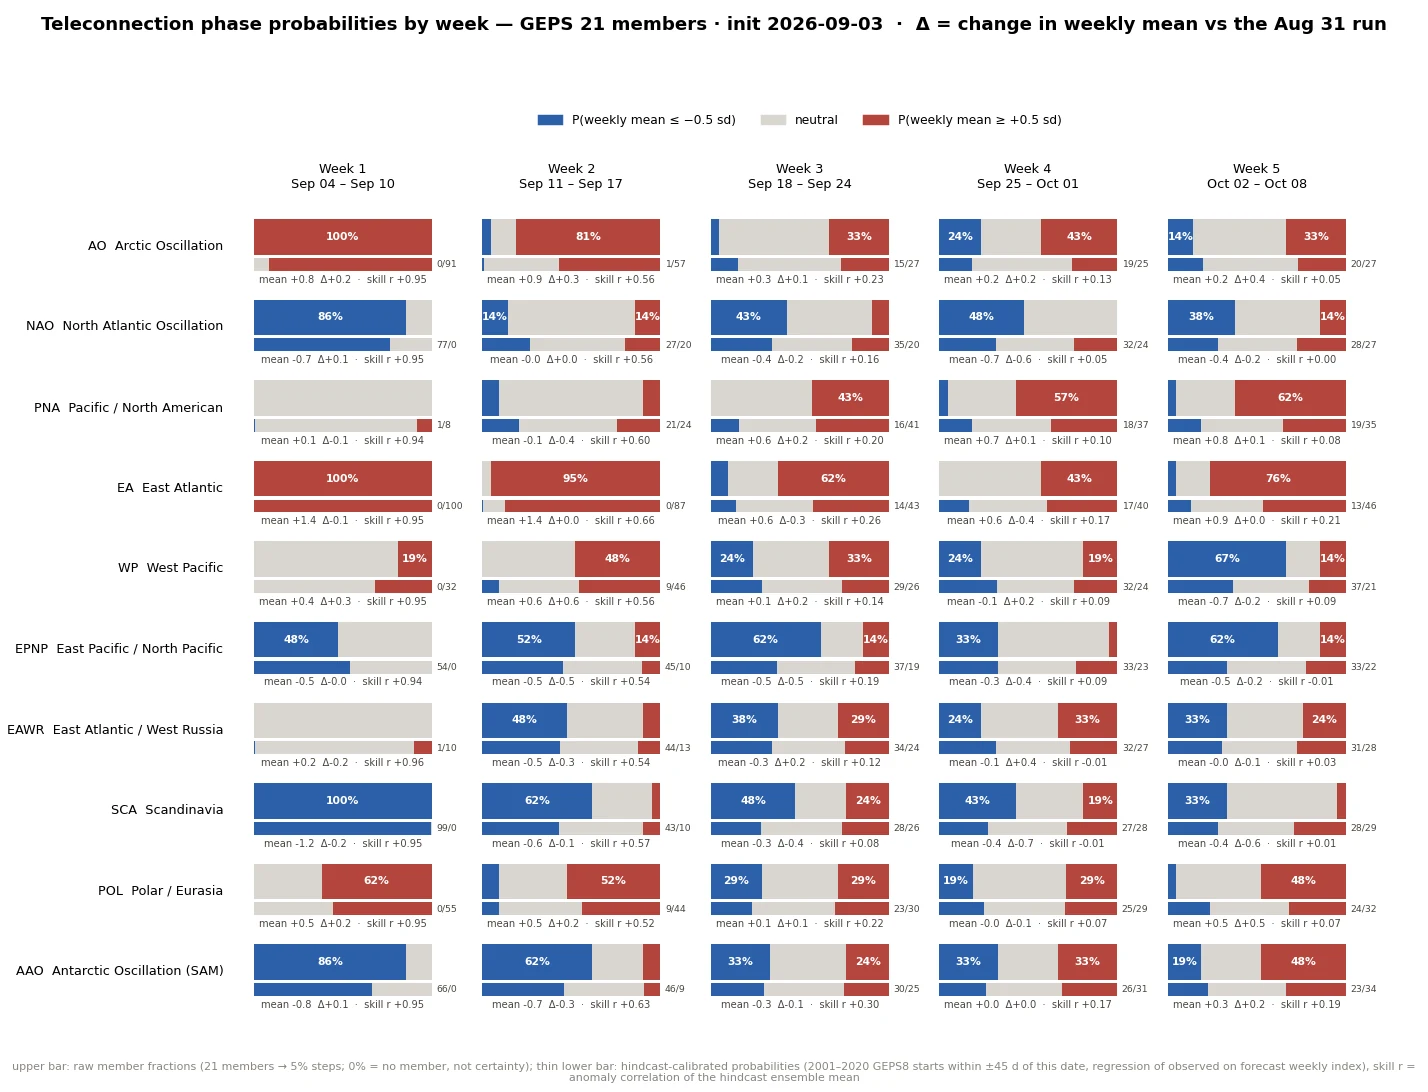
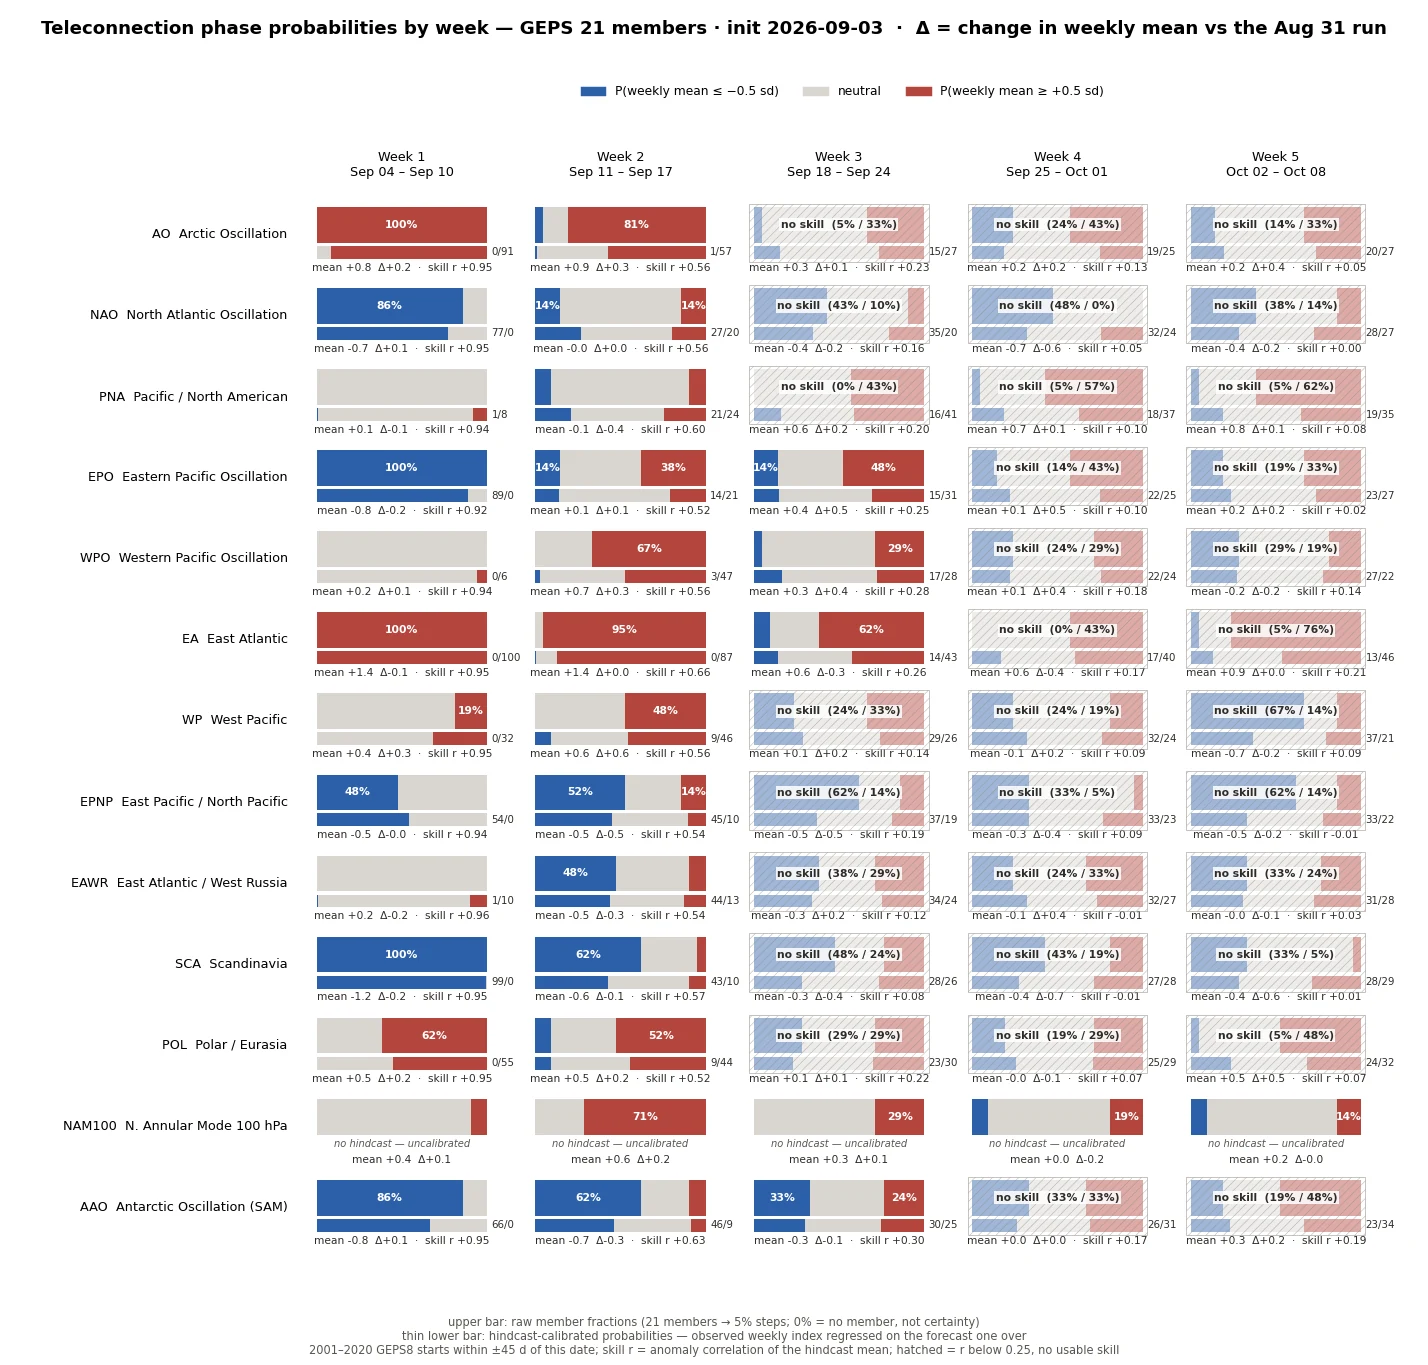
subseasonal: EPO, WPO and NAM-100 indices, per-index plumes with a dropdown, no-skill hatching, darker annotation text
Claude-Session: https://claude.ai/code/session_01XebqmvNTY58jDPzWVXJLUq

diff --git a/subseasonal.html b/subseasonal.html
@@ -104,6 +104,8 @@
   table.tele th span, table.tele td span { display: block; font-weight: 400; font-size: 0.7rem; color: var(--muted); }
   table.tele td i { font-style: normal; color: #4a4640; }
   table.tele td.r { color: var(--muted); font-size: 0.72rem; white-space: nowrap; }
+  table.tele td.noskill { background-image: repeating-linear-gradient(135deg, rgba(255,255,255,0.55) 0 4px, rgba(140,136,128,0.35) 4px 6px) !important; color: var(--muted); }
+  table.tele td.noskill b { color: var(--muted); }
   .chart-card-header b { color: var(--ink); font-weight: 500; }
 
   .img-wrap { padding: 1rem 1.2rem; background: #fff; }
@@ -369,7 +371,16 @@
     lead 0.5 and re-based), so analysis and forecast sit on one rule &mdash; against the NCEP
     climatology instead, the GEPS-versus-R1 height offset projected onto the monopole-like patterns
     as a spurious step at the seam. CPC&rsquo;s own published daily values are drawn beside the
-    tail. Raw probabilities are member fractions, so they resolve to about 5% and 0% means
+    tail. Two Pacific indices forecasters use that are not in CPC&rsquo;s set are added on
+    PSL&rsquo;s definitions &mdash; box differences of 500&nbsp;hPa height anomaly, EPO
+    (20&ndash;35&deg;N minus 55&ndash;65&deg;N over 160&ndash;125&deg;W) and WPO (25&ndash;40&deg;N
+    minus 50&ndash;70&deg;N over 140&deg;E&ndash;150&deg;W) &mdash; and reproduce PSL&rsquo;s daily
+    series at r&nbsp;0.97 and 0.99. The <b>NAM at 100&nbsp;hPa</b>, the stratosphere&ndash;troposphere
+    coupling index, is the leading EOF of 100&nbsp;hPa height anomalies poleward of 20&deg;N with the
+    hemispheric mean removed first (the +19&nbsp;m/decade height trend at that level would otherwise
+    read as a permanently weak vortex), taken from the 21 members&rsquo; 100&nbsp;hPa heights; the
+    GEPS8 hindcast carries nothing above 200&nbsp;hPa, so it is a plain anomaly against the NCEP
+    climatology and gets no calibration. Raw probabilities are member fractions, so they resolve to about 5% and 0% means
     &ldquo;no member&rdquo;, not certainty.</p>
     <p><b>Calibrated on the hindcast.</b> The same projectors are applied to every GEPS8 hindcast
     start of 2001&ndash;2020 &mdash; four a week, 39 daily leads, de-drifted and re-based exactly
@@ -428,12 +439,14 @@ var P = {
         b: {label:"Field", items: FIELDS},
         img: function (a,b) { return "assets/geps/geps_" + a + "_" + b + "_change.webp"; },
         cap: function () { return "This run minus the previous extended run (3\u20134 days earlier), weekly means over the valid days both forecast. Week 5 is a partial week and says so."; }},
-  telecon: {label: "Teleconnections \u2014 AO, NAO, PNA, AAO \u2026", fit: false,
+  telecon: {label: "Teleconnections \u2014 AO, NAO, PNA, EPO, WPO, NAM \u2026", fit: false,
         a: {label:"View", items:[["series","Index plumes"],["probs","Weekly probabilities"],["patterns","Loading patterns"]]},
-        img: function (a) { return "assets/geps/geps_telecon_" + a + ".webp"; },
+        b: function (a) { return a === "series" ? {label:"Index", select: true, items: TELE_IDS} : null; },
+        img: function (a,b) { return a === "series" && b && b !== "board"
+          ? "assets/geps/geps_telecon_plume_" + b + ".webp" : "assets/geps/geps_telecon_" + a + ".webp"; },
         cap: function (a) { return a==="series"
-          ? "Every member projected on CPC-style loading patterns; the tail is GEPS\u2019s own day-0 analyses on the same projection, CPC\u2019s published index as crosses, previous run dashed. Units: standard deviations of the daily index."
-          : (a==="probs" ? "Upper bar: member fractions of the weekly-mean index at or beyond \u00B10.5 sd. Thin lower bar: the same probabilities calibrated on 20 years of GEPS8 hindcasts, with the hindcast skill (anomaly correlation) for that index and week."
+          ? "Every member projected on CPC-style loading patterns (EPO/WPO on PSL\u2019s box definitions, NAM at 100 hPa as the annular EOF); the tail is GEPS\u2019s own day-0 analyses on the same projection, the published daily index as crosses, previous run dashed. Pick one index for a full-size plume. Units: standard deviations of the daily index."
+          : (a==="probs" ? "Upper bar: member fractions of the weekly-mean index at or beyond \u00B10.5 sd. Thin lower bar: the same probabilities calibrated on 20 years of GEPS8 hindcasts, with the hindcast skill (anomaly correlation) for that index and week. Hatched cells: skill below 0.25 \u2014 the members\u2019 opinion is shown but should not be trusted."
                          : "Regression of the monthly field on each index (m or hPa per +1 sd), NCEP/NCAR R1 1991\u20132020, with the correlation of this reproduction against CPC\u2019s own index."); }},
   daily: {label: "Daily animation",
         a: {label:"Domain", items:[["na","North America"],["sa","South America"],
@@ -452,6 +465,11 @@ var P = {
         ratio: function () { return "1139/610"; },
         cap: function () { return "Analysis to day 35, both hemispheres and levels."; }}
 };
+var TELE_IDS = [["board","All indices (board)"],["ao","AO \u2014 Arctic Oscillation"],["nao","NAO \u2014 North Atlantic Oscillation"],
+  ["pna","PNA \u2014 Pacific / North American"],["epo","EPO \u2014 Eastern Pacific Oscillation"],["wpo","WPO \u2014 Western Pacific Oscillation"],
+  ["ea","EA \u2014 East Atlantic"],["wp","WP \u2014 West Pacific"],["epnp","EP/NP \u2014 East Pacific / North Pacific"],
+  ["eawr","EA/WR \u2014 East Atlantic / West Russia"],["sca","SCA \u2014 Scandinavia"],["tnh","TNH \u2014 Tropical / N. Hemisphere (Dec\u2013Feb)"],
+  ["pol","POL \u2014 Polar / Eurasia"],["nam100","NAM 100 hPa \u2014 Northern Annular Mode"],["aao","AAO \u2014 Antarctic Oscillation (SAM)"]];
 var sel = {p: "mjo", a: null, b: null};
 var $ = function (id) { return document.getElementById(id); };
 
@@ -461,6 +479,18 @@ function buttons(host, group, key) {
   if (group.label) {
     var l = document.createElement("span");
     l.className = "seg-label"; l.textContent = group.label; host.appendChild(l);
+  }
+  if (group.select) {
+    var se = document.createElement("select");
+    group.items.forEach(function (it, i) {
+      var o = document.createElement("option");
+      o.value = it[0]; o.textContent = it[1];
+      if (sel[key] === it[0] || (sel[key] === null && i === 0)) { o.selected = true; sel[key] = it[0]; }
+      se.appendChild(o);
+    });
+    se.onchange = function () { sel[key] = se.value; render(); };
+    host.appendChild(se);
+    return sel[key];
   }
   group.items.forEach(function (it, i) {
     var b = document.createElement("button");
@@ -492,7 +522,7 @@ addEventListener("resize", fitStage);
 function render() {
   var p = P[sel.p];
   buttons($("opts-a"), p.a, "a");
-  buttons($("opts-b"), p.b, "b");
+  buttons($("opts-b"), (typeof p.b === "function") ? p.b(sel.a) : p.b, "b");
   var st = $("stage");
   if (p.frame) {
     st.innerHTML = '<iframe src="' + p.frame(sel.a) + '" style="aspect-ratio:'
@@ -538,13 +568,15 @@ function teleTable(show) {
       var bg = tilt > 0 ? "rgba(180,69,60," + (0.08 + 0.55 * tilt) + ")"
                         : "rgba(44,95,168," + (0.08 - 0.55 * tilt) + ")";
       var d = ("prev_mean" in w) ? " <i>\u0394" + (w.mean - w.prev_mean >= 0 ? "+" : "") + (w.mean - w.prev_mean).toFixed(1) + "</i>" : "";
-      var cal = ("skill_r" in w) ? "<span>cal " + Math.round(w.cal_p_neg * 100) + "% / " + Math.round(w.cal_p_pos * 100) + "% \u00B7 skill r " + w.skill_r.toFixed(2) + "</span>" : "";
-      h += '<td style="background:' + bg + '"><b>' + Math.round(w.p_neg * 100) + "% / " + Math.round(w.p_pos * 100) + "%</b><span>mean " + (w.mean >= 0 ? "+" : "") + w.mean.toFixed(1) + d + "</span>" + cal + "</td>";
+      var cal = ("skill_r" in w) ? "<span>cal " + Math.round(w.cal_p_neg * 100) + "% / " + Math.round(w.cal_p_pos * 100) + "% \u00B7 skill r " + w.skill_r.toFixed(2) + "</span>"
+                                 : (x.has_hindcast ? "" : "<span><i>no hindcast</i></span>");
+      var cls = w.no_skill ? ' class="noskill"' : "";
+      h += '<td' + cls + ' style="background:' + bg + '"><b>' + Math.round(w.p_neg * 100) + "% / " + Math.round(w.p_pos * 100) + "%</b><span>mean " + (w.mean >= 0 ? "+" : "") + w.mean.toFixed(1) + d + "</span>" + cal + "</td>";
     });
     var r = x.r_daily != null ? "r " + x.r_daily.toFixed(2) + " daily" : (x.r_monthly != null ? "r " + x.r_monthly.toFixed(2) + " monthly" : "\u2014");
     h += "<td class=\"r\">" + r + "</td></tr>";
   });
-  h += "</tbody></table><p class=\"cap\">P(weekly mean \u2264 \u2212" + TELE.threshold + " sd) / P(\u2265 +" + TELE.threshold + " sd) over " + TELE.n_members + " members; cells tilt red toward the positive phase, blue toward the negative. \u0394 is the change in the weekly mean since the " + TELE.prev_cycle.replace(/(\d{4})(\d{2})(\d{2})/, "$1-$2-$3") + " run. \u201Ccal\u201D is the calibrated probability: the observed weekly index regressed on the hindcast ensemble-mean index over 2001\u20132020 starts within \u00B145 days of this date, applied to today\u2019s ensemble mean, with the residual spread; skill r is the anomaly correlation of that hindcast fit, so a cal near 31% / 31% with r near 0 is climatology. r is the correlation of this index reproduction with CPC\u2019s published index, scored out of sample (patterns fitted 1991\u20132005, scored 2006\u20132020; AO/AAO are EOFs with no fit to CPC).</p>";
+  h += "</tbody></table><p class=\"cap\">P(weekly mean \u2264 \u2212" + TELE.threshold + " sd) / P(\u2265 +" + TELE.threshold + " sd) over " + TELE.n_members + " members; cells tilt red toward the positive phase, blue toward the negative. \u0394 is the change in the weekly mean since the " + TELE.prev_cycle.replace(/(\d{4})(\d{2})(\d{2})/, "$1-$2-$3") + " run. \u201Ccal\u201D is the calibrated probability: the observed weekly index regressed on the hindcast ensemble-mean index over 2001\u20132020 starts within \u00B145 days of this date, applied to today\u2019s ensemble mean, with the residual spread; skill r is the anomaly correlation of that hindcast fit, so a cal near 31% / 31% with r near 0 is climatology. Hatched cells have skill r below " + TELE.skill_min + "; NAM 100 hPa has no hindcast (the GEPS8 archive stops at 200 hPa) and is uncalibrated. r is the correlation of this index reproduction with CPC\u2019s published index, scored out of sample (patterns fitted 1991\u20132005, scored 2006\u20132020; AO/AAO are EOFs with no fit to CPC).</p>";
   host.innerHTML = h;
 }
 
